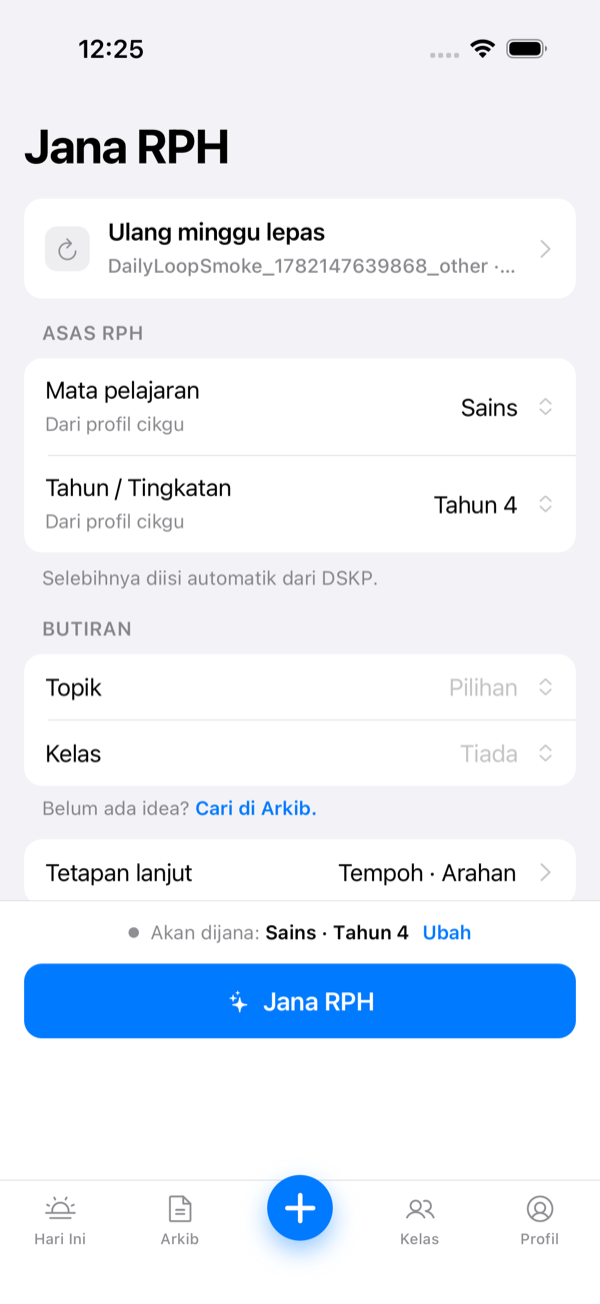
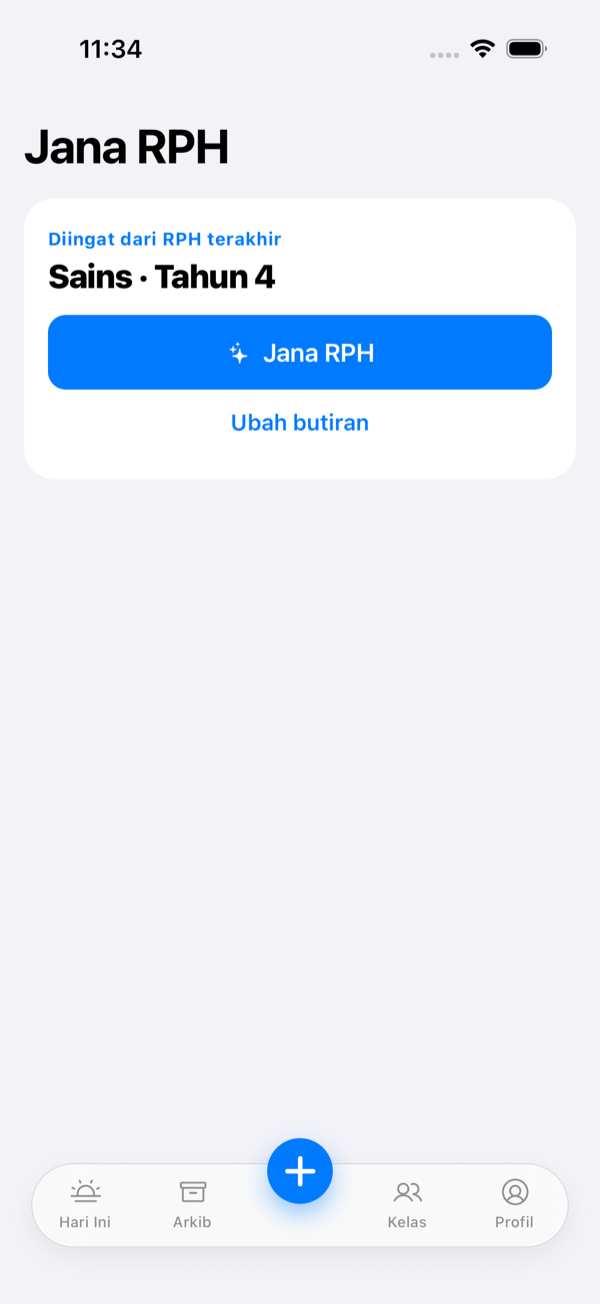
Update: Generate redesign — step flow + confirm card (signed-in + signed-out)

diff --git a/index.html b/index.html
@@ -65,7 +65,7 @@
     <p class="sub">A screen-by-screen record of the Cigu teacher app exactly as it stands today —
       every screen captured as a real iOS Simulator screenshot, signed-in and signed-out.</p>
     <div class="pills">
-      <span class="pill"><b>31</b> screens</span>
+      <span class="pill"><b>36</b> screens</span>
       <span class="pill">Real device captures</span>
       <span class="pill">Light mode (app is light-only today)</span>
       <span class="pill">Updated 28 June 2026</span>
@@ -79,7 +79,7 @@
   </header>
 
   <nav class="index">
-    <h2>All 31 screens</h2>
+    <h2>All 36 screens</h2>
     <div class="idx-cols">
   <div class="idx-group">
     <a class="idx-sec" href="#onboarding-auth">Onboarding & Sign-in</a>
@@ -95,7 +95,7 @@
   </div>
   <div class="idx-group">
     <a class="idx-sec" href="#generate">Jana RPH (Generate)</a>
-    <a class="idx-screen" href="#screen-3"><span>03</span> Jana RPH</a>
+    <a class="idx-screen" href="#screen-3"><span>03</span> Jana RPH · Confirm card</a><a class="idx-screen" href="#screen-33"><span>33</span> Step 1 · Subject</a><a class="idx-screen" href="#screen-34"><span>34</span> Step 2 · Level</a><a class="idx-screen" href="#screen-35"><span>35</span> Step 3 · Topic</a><a class="idx-screen" href="#screen-36"><span>36</span> Jana RPH · Signed out</a>
   </div>
   <div class="idx-group">
     <a class="idx-sec" href="#kelas">Kelas (Classes)</a>
@@ -107,7 +107,7 @@
   </div>
   <div class="idx-group">
     <a class="idx-sec" href="#rph-detail">RPH Detail & Bahan mengajar</a>
-    <a class="idx-screen" href="#screen-8"><span>08</span> RPH Detail</a><a class="idx-screen" href="#screen-18"><span>18</span> Bahan · Kuiz</a><a class="idx-screen" href="#screen-19"><span>19</span> Bahan · Slaid</a><a class="idx-screen" href="#screen-20"><span>20</span> Bahan · Peta Minda</a><a class="idx-screen" href="#screen-32"><span>32</span> RPH · Fresh spotlight</a>
+    <a class="idx-screen" href="#screen-8"><span>08</span> RPH Detail</a><a class="idx-screen" href="#screen-18"><span>18</span> Bahan · Kuiz</a><a class="idx-screen" href="#screen-19"><span>19</span> Bahan · Slaid</a><a class="idx-screen" href="#screen-20"><span>20</span> Bahan · Peta Minda</a><a class="idx-screen" href="#screen-32"><span>32</span> RPH · Fresh spotlight</a><a class="idx-screen" href="#screen-37"><span>37</span> RPH Detail · Signed out (401)</a>
   </div>
   <div class="idx-group">
     <a class="idx-sec" href="#detail-exec">Class detail · Fragment · Teaching mode</a>
@@ -224,16 +224,52 @@
   <section class="sec" id="generate">
     <div class="sec-head">
       <h2>Jana RPH (Generate)</h2>
-      <p>The core action — start a new lesson plan. Reached via the centre ＋ button.</p>
+      <p>The core action — start a new lesson plan. Reached via the centre ＋ button. Redesigned from a dense form into a one-tap confirm card with an optional 3-step flow behind “Ubah butiran”.</p>
     </div>
     <div class="grid">
   <article class="card" id="screen-3">
-    <div class="frame"><img loading="lazy" src="screens/03-generate.png" alt="Jana RPH"></div>
+    <div class="frame"><img loading="lazy" src="screens/03-generate.png" alt="Jana RPH · Confirm card"></div>
     <div class="meta">
       <div class="num">03</div>
-      <h3>Jana RPH</h3>
+      <h3>Jana RPH · Confirm card</h3>
       <div class="tags"><span class="tag" style="--tc:#1f3d2f">Signed in</span></div>
-      <p>The generate form with smart defaults that name their source (“Dari profil cikgu”), a one-tap “Ulang minggu lepas”, optional topic/class, and a clear “Jana RPH” dock.</p>
+      <p>The new one-tap default: a single card remembers last week’s lesson (“Diingat dari RPH terakhir” → “Sains · Tahun 4”) so the teacher can just press “Jana RPH”. “Ubah butiran” opens the step-flow to change anything.</p>
+    </div>
+  </article>
+  <article class="card" id="screen-33">
+    <div class="frame"><img loading="lazy" src="screens/33-generate-step1-subject.png" alt="Step 1 · Subject"></div>
+    <div class="meta">
+      <div class="num">33</div>
+      <h3>Step 1 · Subject</h3>
+      <div class="tags"><span class="tag" style="--tc:#1f3d2f">Signed in</span><span class="tag" style="--tc:#0a66c2">Step flow</span></div>
+      <p>Tapping “Ubah butiran” opens step 1 of 3 (“Cikgu ajar apa?”). A searchable subject list grouped by cluster (Lazim / Bahasa / Sains & Matematik), with the current subject (Sains) pre-ticked.</p>
+    </div>
+  </article>
+  <article class="card" id="screen-34">
+    <div class="frame"><img loading="lazy" src="screens/34-generate-step2-level.png" alt="Step 2 · Level"></div>
+    <div class="meta">
+      <div class="num">34</div>
+      <h3>Step 2 · Level</h3>
+      <div class="tags"><span class="tag" style="--tc:#1f3d2f">Signed in</span><span class="tag" style="--tc:#0a66c2">Step flow</span></div>
+      <p>Step 2 of 3 (“Tahun berapa?”). Only curriculum-valid levels for the chosen subject are shown — split into Sekolah Rendah and Sekolah Menengah — with the current level pre-selected.</p>
+    </div>
+  </article>
+  <article class="card" id="screen-35">
+    <div class="frame"><img loading="lazy" src="screens/35-generate-step3-topic.png" alt="Step 3 · Topic"></div>
+    <div class="meta">
+      <div class="num">35</div>
+      <h3>Step 3 · Topic</h3>
+      <div class="tags"><span class="tag" style="--tc:#1f3d2f">Signed in</span><span class="tag" style="--tc:#0a66c2">Step flow</span></div>
+      <p>Step 3 of 3 (“Topik apa?”). Live DSKP topic chips for the chosen subject + level, a “Cadangkan untuk saya” suggestion, optional class and advanced settings, and the final “Jana RPH” button.</p>
+    </div>
+  </article>
+  <article class="card" id="screen-36">
+    <div class="frame"><img loading="lazy" src="screens/36-generate-signedout.png" alt="Jana RPH · Signed out"></div>
+    <div class="meta">
+      <div class="num">36</div>
+      <h3>Jana RPH · Signed out</h3>
+      <div class="tags"><span class="tag" style="--tc:#8a6d3b">Signed out</span></div>
+      <p>The same tab with no account — no form, just a friendly “Cuba tanpa akaun” invite letting a teacher generate one full RPH before signing up.</p>
     </div>
   </article></div>
   </section>
@@ -354,6 +390,15 @@
       <h3>RPH · Fresh spotlight</h3>
       <div class="tags"><span class="tag" style="--tc:#1f3d2f">Signed in</span></div>
       <p>The moment a freshly generated RPH lands — a “RPH SIAP · Sambung terus — buat kuiz?” spotlight that nudges the teacher straight into making materials.</p>
+    </div>
+  </article>
+  <article class="card" id="screen-37">
+    <div class="frame"><img loading="lazy" src="screens/37-detail-signedout-401.png" alt="RPH Detail · Signed out (401)"></div>
+    <div class="meta">
+      <div class="num">37</div>
+      <h3>RPH Detail · Signed out (401)</h3>
+      <div class="tags"><span class="tag" style="--tc:#8a6d3b">Signed out</span><span class="tag" style="--tc:#b3261e">Sad path</span></div>
+      <p>Opening an RPH with no session (or after it expires) — a clean Bahasa “Log masuk untuk teruskan” state explaining the session may have ended, with one “Log masuk” button. No raw error text.</p>
     </div>
   </article></div>
   </section>
@@ -486,7 +531,7 @@
   </section>
 
   <footer>
-    Cigu (JASA) mobile app · current-state catalog · 31 screens · updated 28 June 2026.<br>
+    Cigu (JASA) mobile app · current-state catalog · 36 screens · updated 28 June 2026.<br>
     Captured on iOS Simulator (iPhone 17 Pro) from the live development build. Previews are screenshots, not interactive.
     <br><br><a class="back" href="#">↑ Back to top</a>
   </footer>